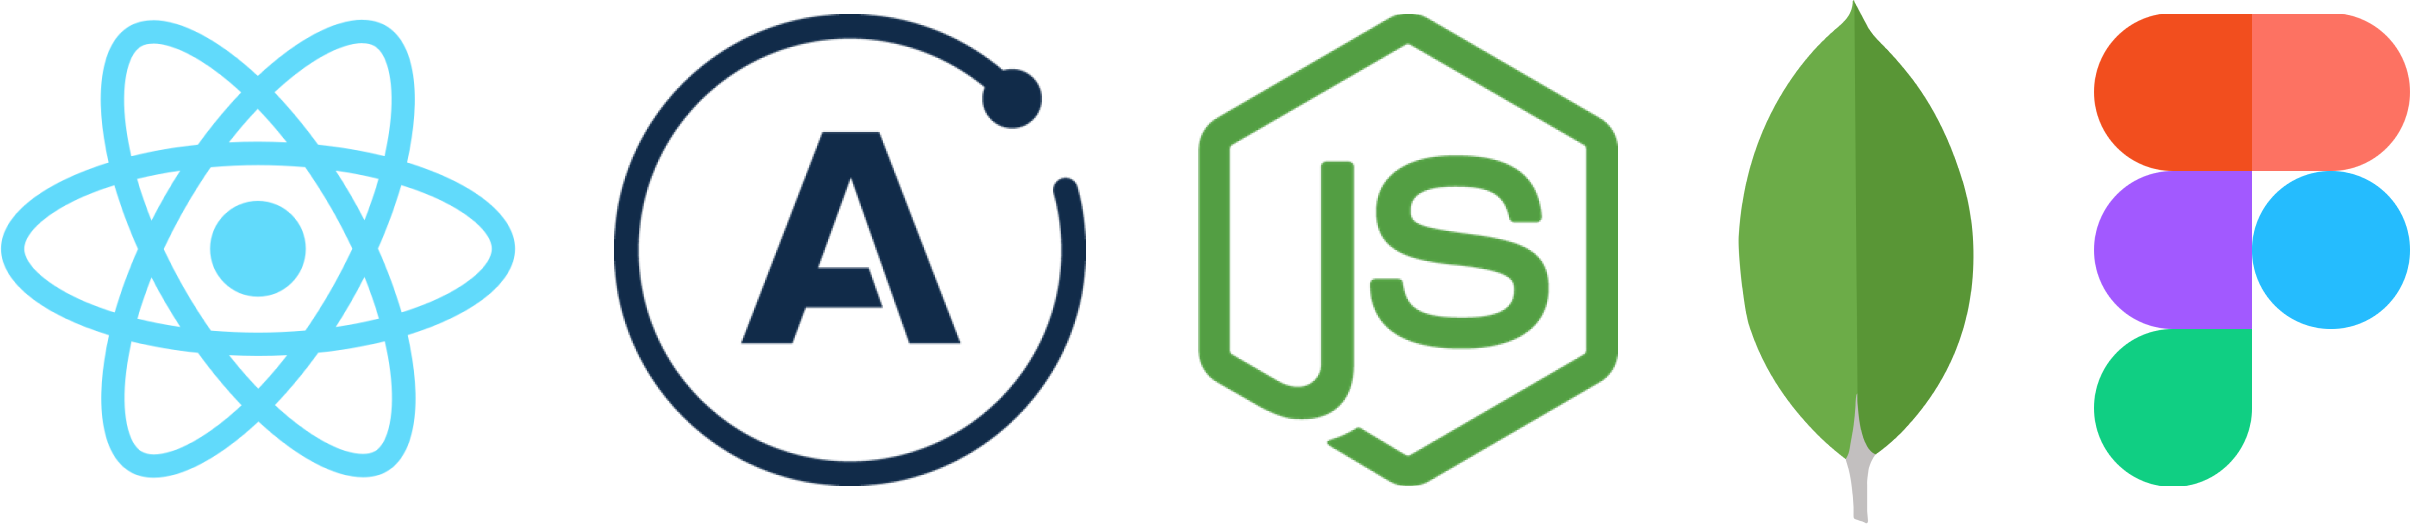
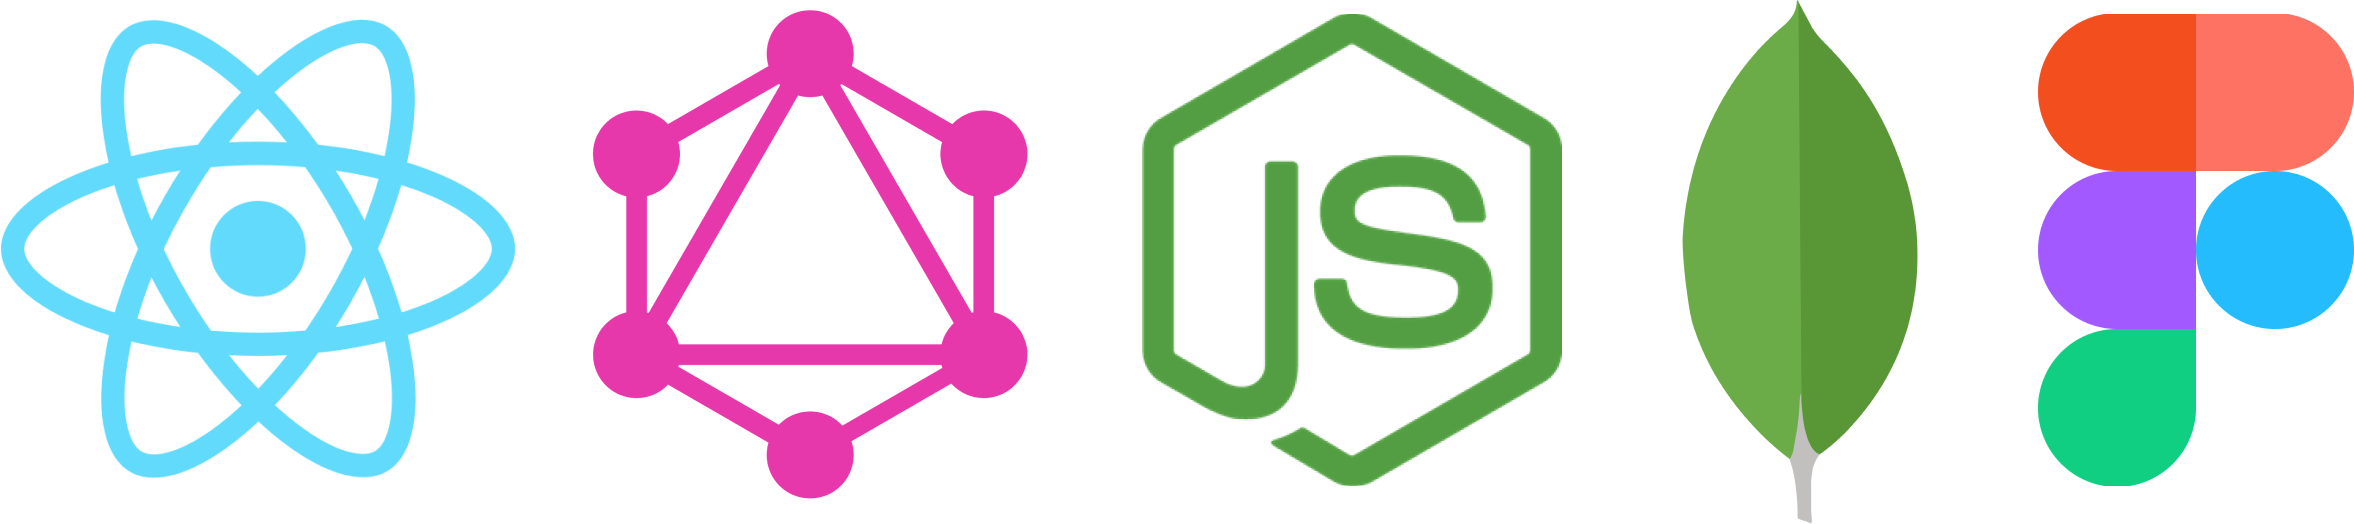
Fix stack

diff --git a/index.html b/index.html
@@ -54,7 +54,7 @@
             <h3>Прочие проекты</h3>
             <p>Ещё я делал платформу для проведения онлайн-курсов, маркетплейс для оптовых покупок, сервис для поиска сотрудников в строительной сфере, и прочие более мелкие продукты, но показать эти проекты, к сожалению, не могу.</p>
             <h2>Технологии</h2>
-            <p>При разработке я использую React, Apollo, Node.js, MongoDB и Figma для создания дизайна.</p>
+            <p>При разработке я использую React, Node.js, GraphQL, MongoDB и Figma для создания дизайна.</p>
             <p><img src="/stack.png" alt="" /></p>
             <h2>Обучение</h2>
             <p>Обучаю созданию веб-сервисов и мобильных приложений. Вместе с учащимся в процессе индивидуальных занятий разрабатываем продукт, который придумает сам учащийся. Разрабатываем и бэкенд, и фронтенд. Технологии: Node.js, MongoDB, GraphQL, React, ReacNative. Одно занятие 1500 рублей. Первую версию своего продукта можно сделать за 2–3 месяца занятий. Кто хочет обучаться, пишите, договоримся о времени первого занятия.</p>
